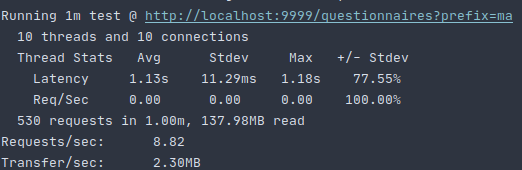
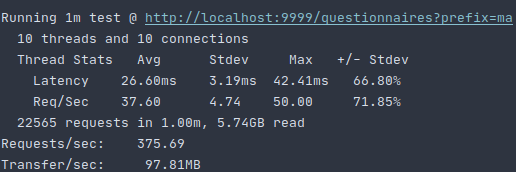
replication tarantool: prototype report

diff --git a/replication/mysql_and_tarantool/README.md b/replication/mysql_and_tarantool/README.md
@@ -406,11 +406,43 @@ make wrk
   <img src="static/mysql_stress_test.png">
 </p>
 
+Теперь необходимо произвести нагрузочное тестирование на backend, но уже в качестве хранилища использовать не MySQL, а
+Tarantool. Для этого, необходимо перейти в [код](https://github.com/teploff/otus-highload/blob/main/server/internal/app/app.go)
+и закомментировать строку **53** и раскомментировать строку **54**.
+
+Теперь пересобираем наш backend:
+```shell script
+make backend
+```
+
+И производим нагрузочное тестирование:
+```shell script
+make wrk
+```
+
+Результат получился следующим:</br>
+<p align="center">
+  <img src="static/tarantool_stress_test.png">
+</p>
+
+Если перейти в лог backend'а, то можно увидеть нескончаемую череду ошибок вида:
+```shell script
+client connection is not ready tarantool
+tarantool: reconnect (0/3) to storage_tarantool:3301 failed: read tcp 172.18.0.5:35484->172.18.0.3:3301: i/o timeout
+```
+
+Думал, Mutex что ли вешать на каждый conn, но даже он не помог.
 
 <a name="stress-testing-results"></a>
 ### Результаты
-TODO
+Если результаты представить в виде графиков, то будут они выглядеть следующим образом:</br>
+<p align="center">
+<img src="static/tarantool_stress_test.png">
+</p>
+
 
 <a name="results"></a>
 ## Итоги
-TODO
+Как уже было сказано выше, очень сырой и не опробованный продукт. В очередной раз убеждаюсь в том, почему люди смотрят в
+сторону Redis-а, нежели в сторону Tarantool'а, хотя немного недоумеваю откуда у этого продукта 2.5к звезд. Допускаю, что
+на протяжении все работы делал, что-то не так, тогда исчерпывающая документация и понятные ошибки.
